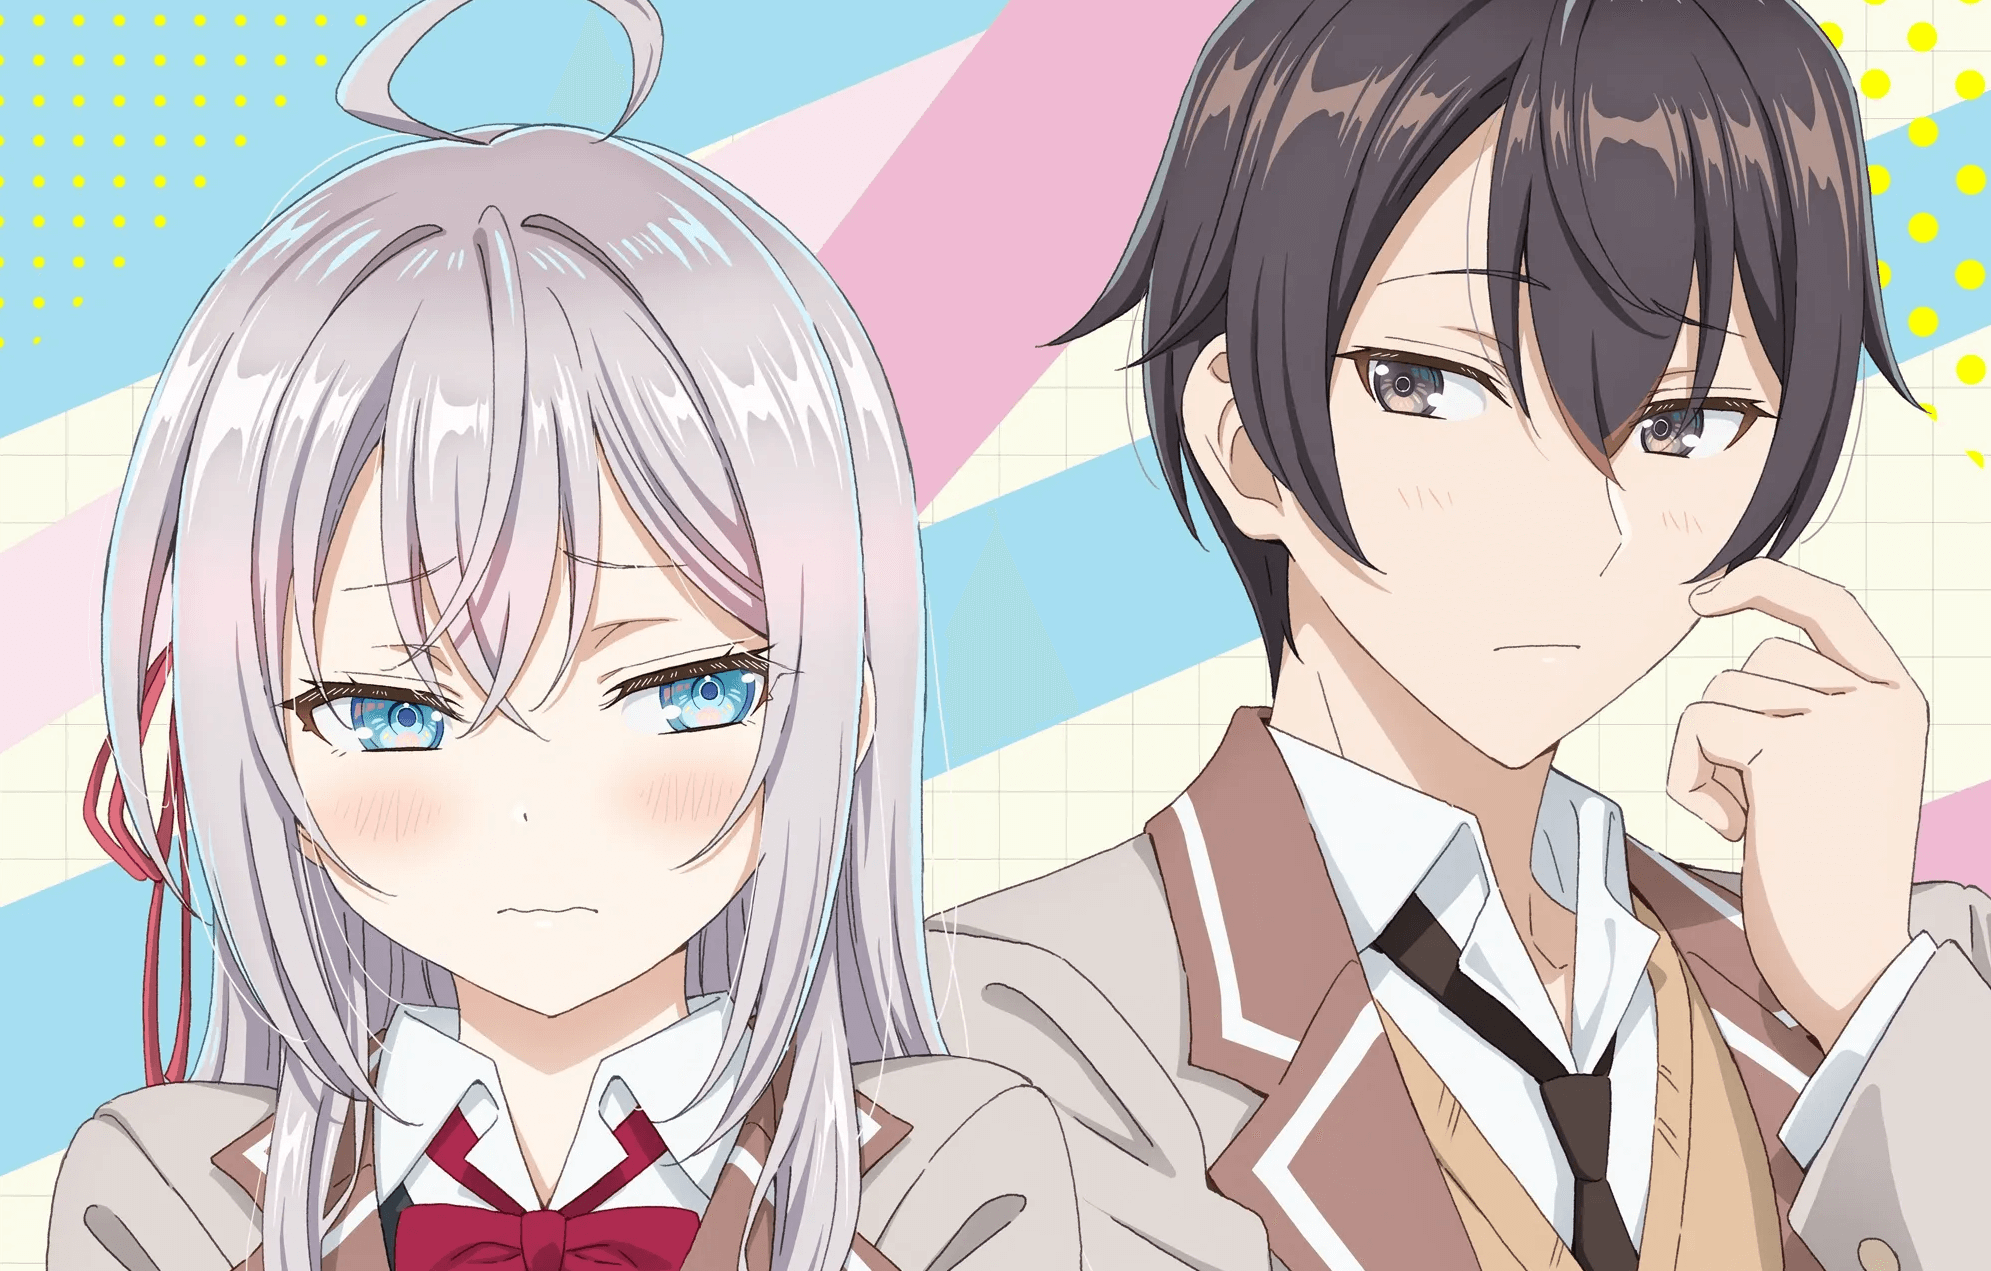
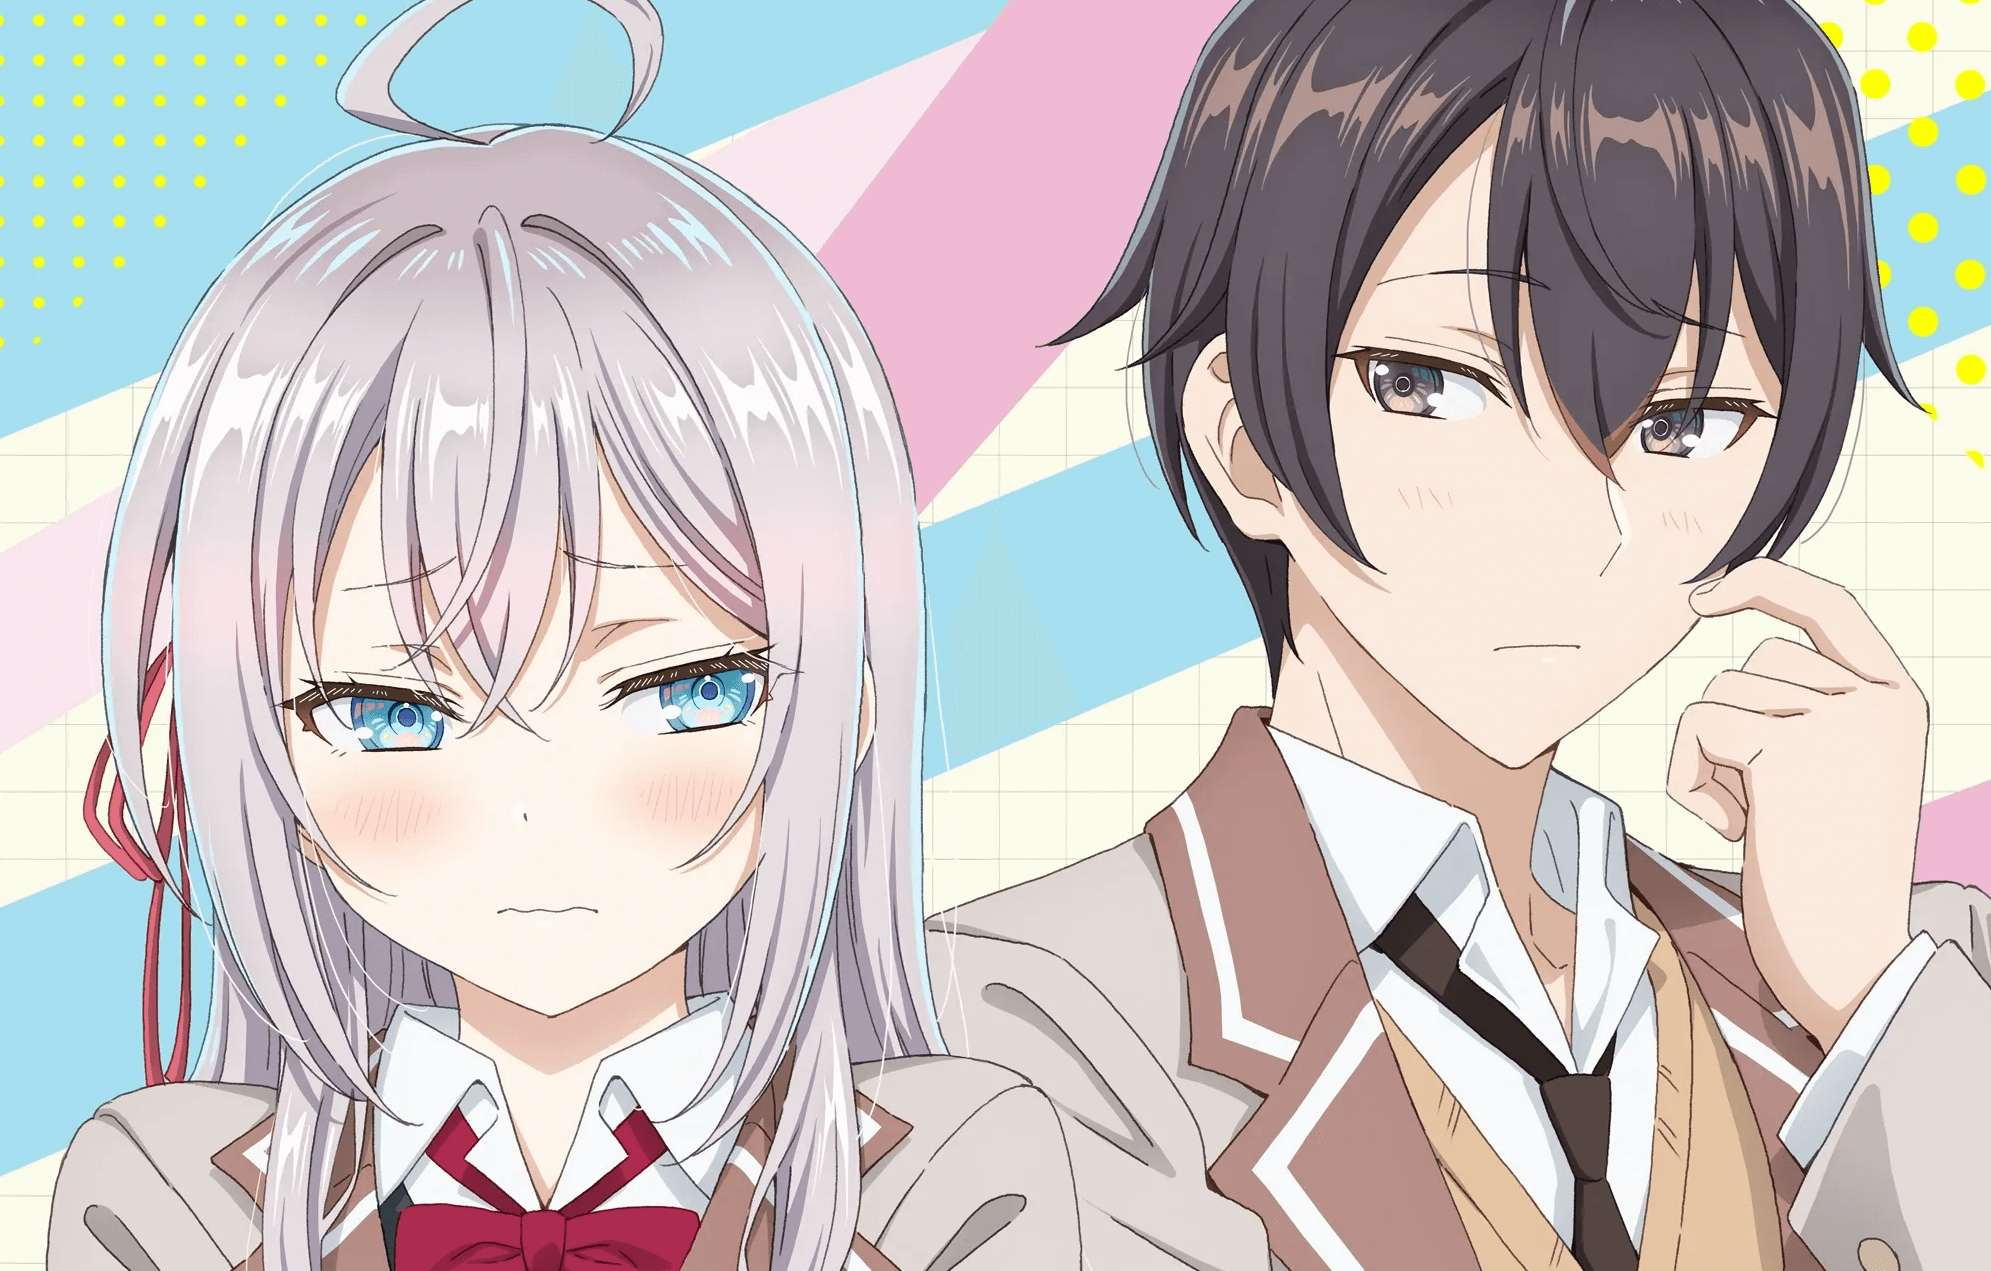
Compress images

Changed region(s): [[0.3425, 0.5216, 0.3737, 0.5523], [0.1868, 0.5523, 0.218, 0.583]]

diff --git a/style/firstSteps.css b/style/firstSteps.css
@@ -371,7 +371,7 @@ td, th
 
 .title-block:hover .title-name
 {
-    background-image: url('/img/ui/gesture-bar-up.png'); 
+    /* background-image: url('/img/ui/gesture-bar-up.png');  */
 }
 
 .title-content-block
@@ -396,12 +396,13 @@ td, th
     text-align: center;
     font-size: 2em;
     width: 100%;
-    /* border: 2px solid white; DEBUG */
     color: #fff;
     text-shadow: 0px 0px 5px #ff00bb;
-    background-image: url('/img/ui/gesture-bar.png');
+    /* background-image: url('/img/ui/gesture-bar.png'); */
     background-repeat: repeat-x;
     transition: background-image var(--animation-time-titles) ease;
+    /* DEBUG */
+    /* border: 2px solid white;  */
 }
 
 .title-genres
@@ -412,7 +413,7 @@ td, th
 
 .title-description
 {
-    border: 2px solid black; /* DEBUG */
+    /* border: 2px solid black; DEBUG */
     font-family: "Caveat Brush", cursive;
 }
 
